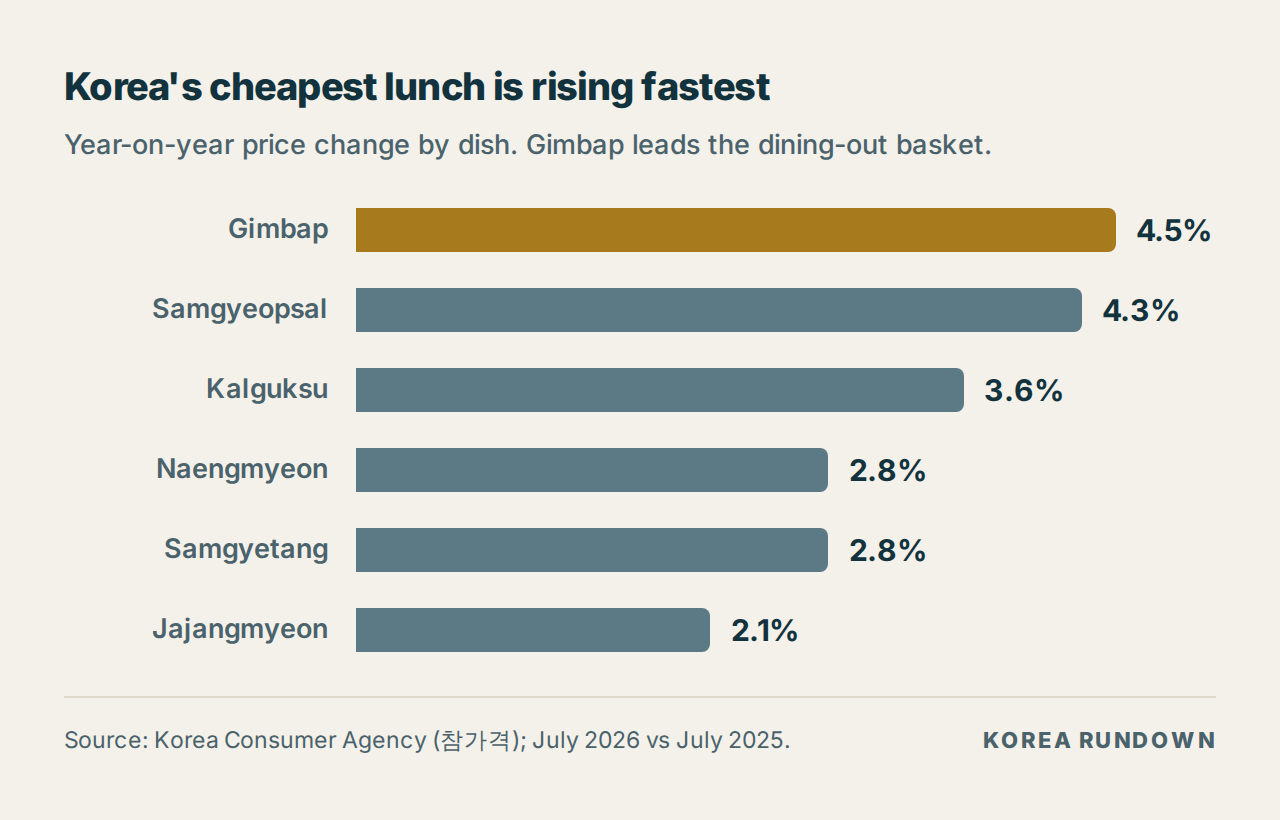
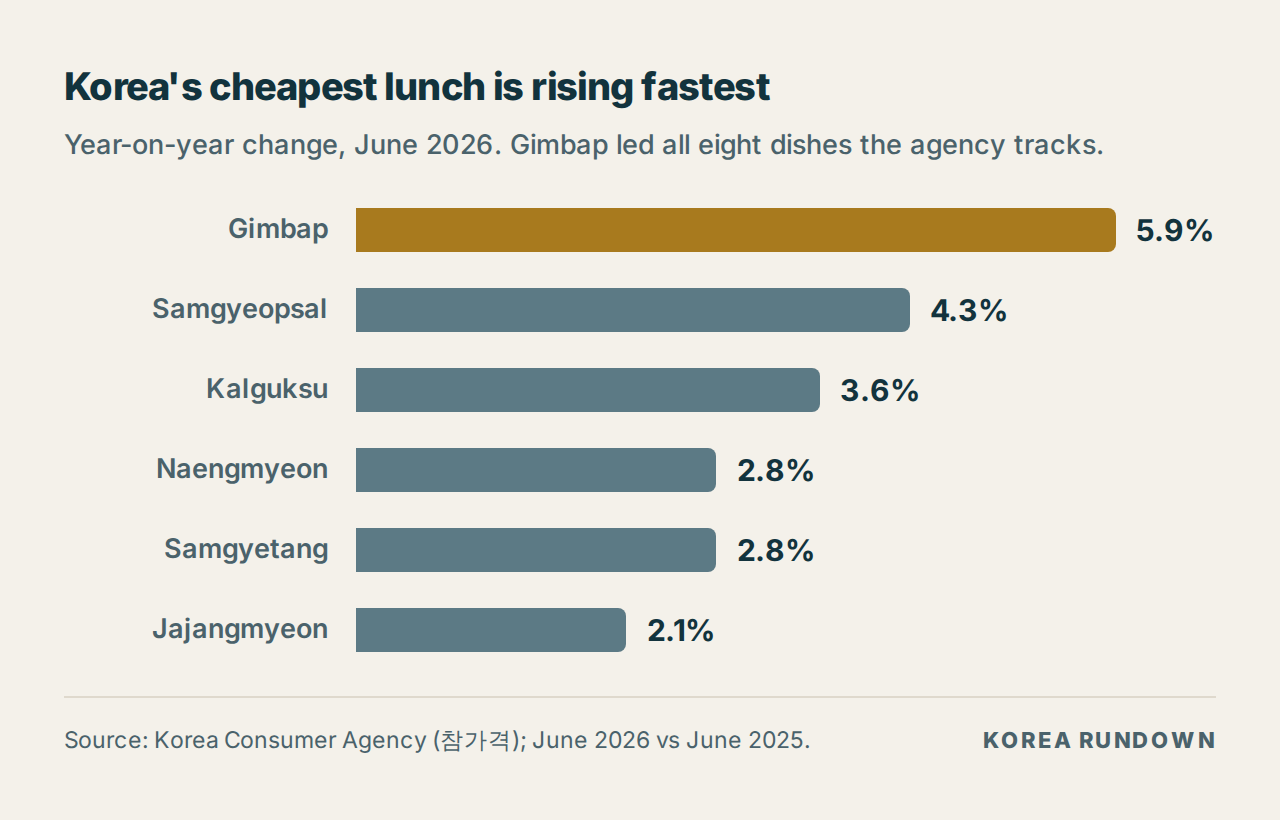
Correct the gimbap figures after verifying the source series
Checking which gimbap average was right turned up a real error in the draft
rather than just an ambiguity.

Both prices were correct and belong to different months. The Consumer Agency's
Seoul series runs 3,723 won last December, 3,800 in January, 3,838 in June,
3,869 in July, so the draft's July level stands and the series now appears in
the post - it shows a steady climb rather than one jump.

The rate was wrong. The draft put gimbap at +4.5% and credited the Consumer
Agency's July survey, but that number is from Statistics Korea's CPI index for
gimbap (4.2% June, 4.5% July) - a different series from a different agency. In
the Consumer Agency's own cross-dish comparison, gimbap rose 5.9% year on year
in June and led all eight dishes tracked, with second place 1.6 points behind.
The chart had been mixing the CPI rate for gimbap with Consumer Agency rates
for every other dish.

Correcting it strengthens the piece: 5.9% against 4.3% is a gap worth writing
about, where 4.5% against 4.3% was not. It also sharpens the US comparison -
six of the eight dishes rose more slowly than US restaurant prices, so gimbap
reads as the outlier rather than the pattern.

Price levels stay July and the cross-dish comparison is June, since that is the
most recent one published for all eight. The draft says so under both tables
rather than quietly presenting them as one period.

Claude-Session: https://claude.ai/code/session_01DXjPNUhpp2Fxvaqj7RdKND

diff --git a/drafts/2026-08-25-seoul-lunch-prices.md b/drafts/2026-08-25-seoul-lunch-prices.md
@@ -11,8 +11,15 @@
 > - `bls.gov` CPI (2026년 7월) / `ers.usda.gov` Food Price Outlook — food away from home
 > - 환율 기준일과 값 (본문 전체가 이 값 하나로 통일돼 있습니다)
 >
-> **특히 확인 필요:** 김밥 평균가가 자료마다 3,838원과 3,869원으로 엇갈립니다.
-> 3,869원이 7월치로 보이고 3,838원은 그 이전 달 수치로 보이지만, 원문에서 확정하세요.
+> **해결됨 — 김밥 평균가 3,838 vs 3,869:** 둘 다 맞고 월이 다릅니다.
+> 참가격 서울 월별 시계열은 2025년 12월 3,723원 → 2026년 1월 3,800원 →
+> 6월 3,838원 → **7월 3,869원**. 본문은 최신치인 7월 3,869원을 씁니다.
+>
+> **함께 정정한 것:** 초기 초고는 김밥 상승률을 4.5%로 적고 참가격 7월치라고 달았는데
+> 잘못이었습니다. 참가격 8개 품목 비교(6월 기준)에서 김밥은 **5.9%** 로 1위이고,
+> 4.2%/4.5%는 통계청 소비자물가 김밥 지수(6월/7월)의 다른 계열입니다.
+> 본문은 참가격 6월 비교로 통일했고, 가격 수준만 7월치를 씁니다.
+> **가격 수준은 7월, 품목 간 상승률 비교는 6월** — 이 구분이 원문과 맞는지 확인하세요.
 >
 > 미국 패스트푸드 콤보 가격($9–11)은 **공식 통계가 아니라 업계 집계**입니다.
 > 본문에도 그렇게 밝혀 뒀습니다. 더 단단한 근거를 원하시면 BLS Average Price 시리즈를
@@ -25,29 +32,36 @@
 *Last updated: August 25, 2026 · Exchange rate used: ₩1,383 = $1 (August 24, 2026)*
 
 A roll of gimbap — the seaweed rice roll you grab from a corner shop when you have
-seven minutes and ₩4,000 — now averages **₩3,869 in Seoul, about $2.80**. That is
-the cheapest thing on this list, and it is also the item rising fastest: **up 4.5%
-from a year ago**, ahead of every other dish in Korea's dining-out basket.
+seven minutes and ₩4,000 — now averages **₩3,869 in Seoul, about $2.80** (July 2026).
+That is the cheapest thing on this list, and it is also the item rising fastest:
+in the most recent full comparison across the eight dishes Korea's consumer agency
+tracks, gimbap was up **5.9% year on year** — the steepest of the eight, and well
+clear of second place.
 
 Here is the part that matters if you are planning a trip: even after that increase,
 it is still roughly a third of what a comparable quick lunch costs in the US.
 
 ## The number
 
-**₩3,869 — $2.80 — for one roll of gimbap.** Up 4.5% year on year.
+**₩3,869 — $2.80 — for one roll of gimbap.** Up 5.9% year on year, the fastest
+riser of the eight dishes tracked.
 
 ![What a restaurant meal costs in Seoul right now](../figures/seoul-lunch-prices.png)
 
 ## What a meal actually costs in Seoul
 
-| Dish | Seoul average (July 2026) | In dollars | Change vs July 2025 |
-|---|---|---|---|
-| Samgyetang (ginseng chicken soup) | ₩18,192 | $13.15 | +2.8% |
-| Naengmyeon (cold noodles) | ₩12,692 | $9.18 | +2.8% |
-| Gimbap (one roll) | ₩3,869 | $2.80 | +4.5% |
+| Dish | Seoul average (July 2026) | In dollars |
+|---|---|---|
+| Samgyetang (ginseng chicken soup) | ₩18,192 | $13.15 |
+| Naengmyeon (cold noodles) | ₩12,692 | $9.18 |
+| Gimbap (one roll) | ₩3,869 | $2.80 |
 
 > Source: Korea Consumer Agency (한국소비자원) *참가격* monthly dining-out survey,
 > Seoul averages, July 2026. Converted at ₩1,383/USD.
+
+Gimbap has moved steadily rather than in one jump: ₩3,723 last December, ₩3,800 in
+January, ₩3,838 in June, ₩3,869 in July. The ₩4,000 roll is close enough that Korean
+papers have started writing the headline in advance.
 
 The two summer dishes are the ones Koreans complain about — samgyetang crossing
 ₩18,000 makes the news every July. But the number that actually changes how you eat
@@ -58,17 +72,20 @@ everything above it eventually follows.
 
 ![Year-on-year price change by dish](../figures/dining-inflation-by-dish.png)
 
-| Dish | Change vs July 2025 |
+| Dish | Change vs June 2025 |
 |---|---|
-| Gimbap | +4.5% |
+| Gimbap | +5.9% |
 | Samgyeopsal (pork belly) | +4.3% |
 | Kalguksu (knife-cut noodles) | +3.6% |
 | Naengmyeon | +2.8% |
 | Samgyetang | +2.8% |
+| Bibimbap | +2.7% |
 | Jajangmyeon | +2.1% |
 | Kimchi-jjigae | +1.8% |
 
-> Source: Korea Consumer Agency (참가격), July 2026 vs July 2025.
+> Source: Korea Consumer Agency (참가격), all eight tracked dishes, June 2026 vs
+> June 2025. Price *levels* above are July; this cross-dish comparison is the most
+> recent one published for all eight.
 
 This is the opposite of what you would expect. Cheap food is supposed to be sticky —
 the ₩1,000 price point holds for years because breaking it is a marketing event.
@@ -105,13 +122,14 @@ Two things are true at once, and most coverage picks one.
 **On inflation, the two countries are close.** Korea's overall consumer prices rose
 **2.8%** year on year in July 2026. US *food away from home* rose about **3.4%** over
 a comparable period, with BLS regional readings for July 2026 between 2.6% and 3.4%.
-Korean restaurant prices are not running away faster than American ones — dish by
-dish, they are rising at roughly the same rate or slower.
+Korean restaurant prices are not running away faster than American ones — six of the
+eight dishes tracked rose more slowly than US restaurant prices. Gimbap is the
+outlier, not the pattern.
 
 | | Korea | United States |
 |---|---|---|
 | Headline CPI, July 2026 | +2.8% y/y | — |
-| Dining out / food away from home | +1.8% to +4.5% by dish | +2.6% to +3.4% by region |
+| Dining out / food away from home | +1.8% to +5.9% by dish | +2.6% to +3.4% by region |
 
 > Sources: Statistics Korea, July 2026 CPI; Korea Consumer Agency (참가격);
 > US Bureau of Labor Statistics regional CPI, July 2026; USDA Economic Research
@@ -145,7 +163,8 @@ What has changed is that the cheapest tier is no longer effectively frozen.
 
 **Why is gimbap rising faster than expensive dishes?**
 Ingredients are a much larger share of a ₩3,800 item than a ₩18,000 one. Rice rose
-13.2% year on year in the second quarter, and gimbap is mostly rice.
+13.2% year on year in the second quarter, and gimbap is mostly rice. At +5.9% it led
+all eight dishes the consumer agency tracks; second place was 1.6 points behind.
 
 **Will prices keep rising through 2026?**
 Several manufacturers have announced increases taking effect from September, and
@@ -171,7 +190,7 @@ question.
 
 - [ ] 위 경고 블록을 지웠다
 - [ ] 모든 수치를 1차 출처에서 확인했다
-- [ ] 김밥 평균가(3,838 vs 3,869) 어느 쪽이 7월치인지 확정했다
+- [ ] 가격 수준(7월)과 품목 간 상승률 비교(6월)의 기준월 차이를 원문에서 확인했다
 - [ ] 환율과 기준일이 본문 전체에서 하나로 통일돼 있다
 - [ ] 표를 이미지가 아니라 **HTML 텍스트 표**로 넣었다
 - [ ] 이미지 3장에 alt 텍스트를 넣었다
